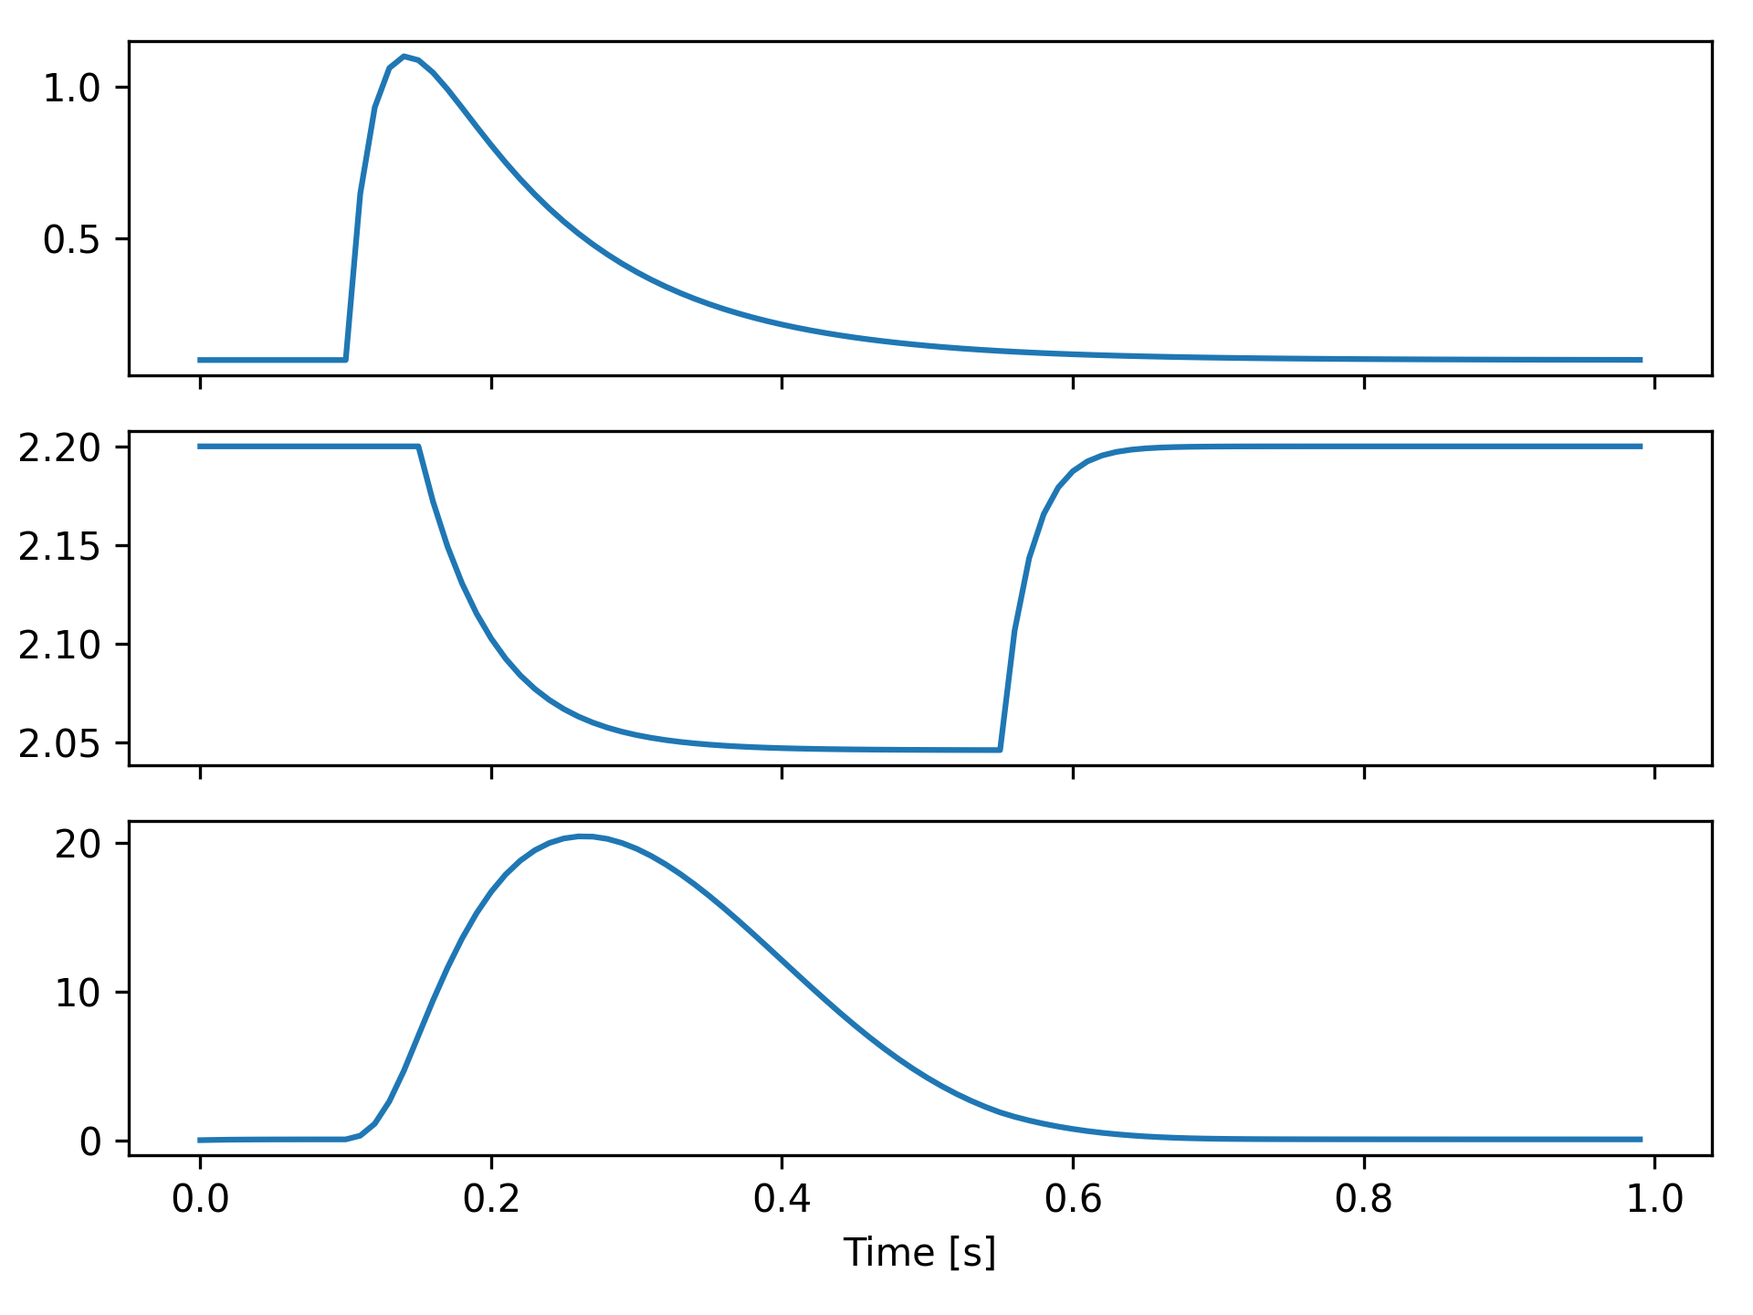
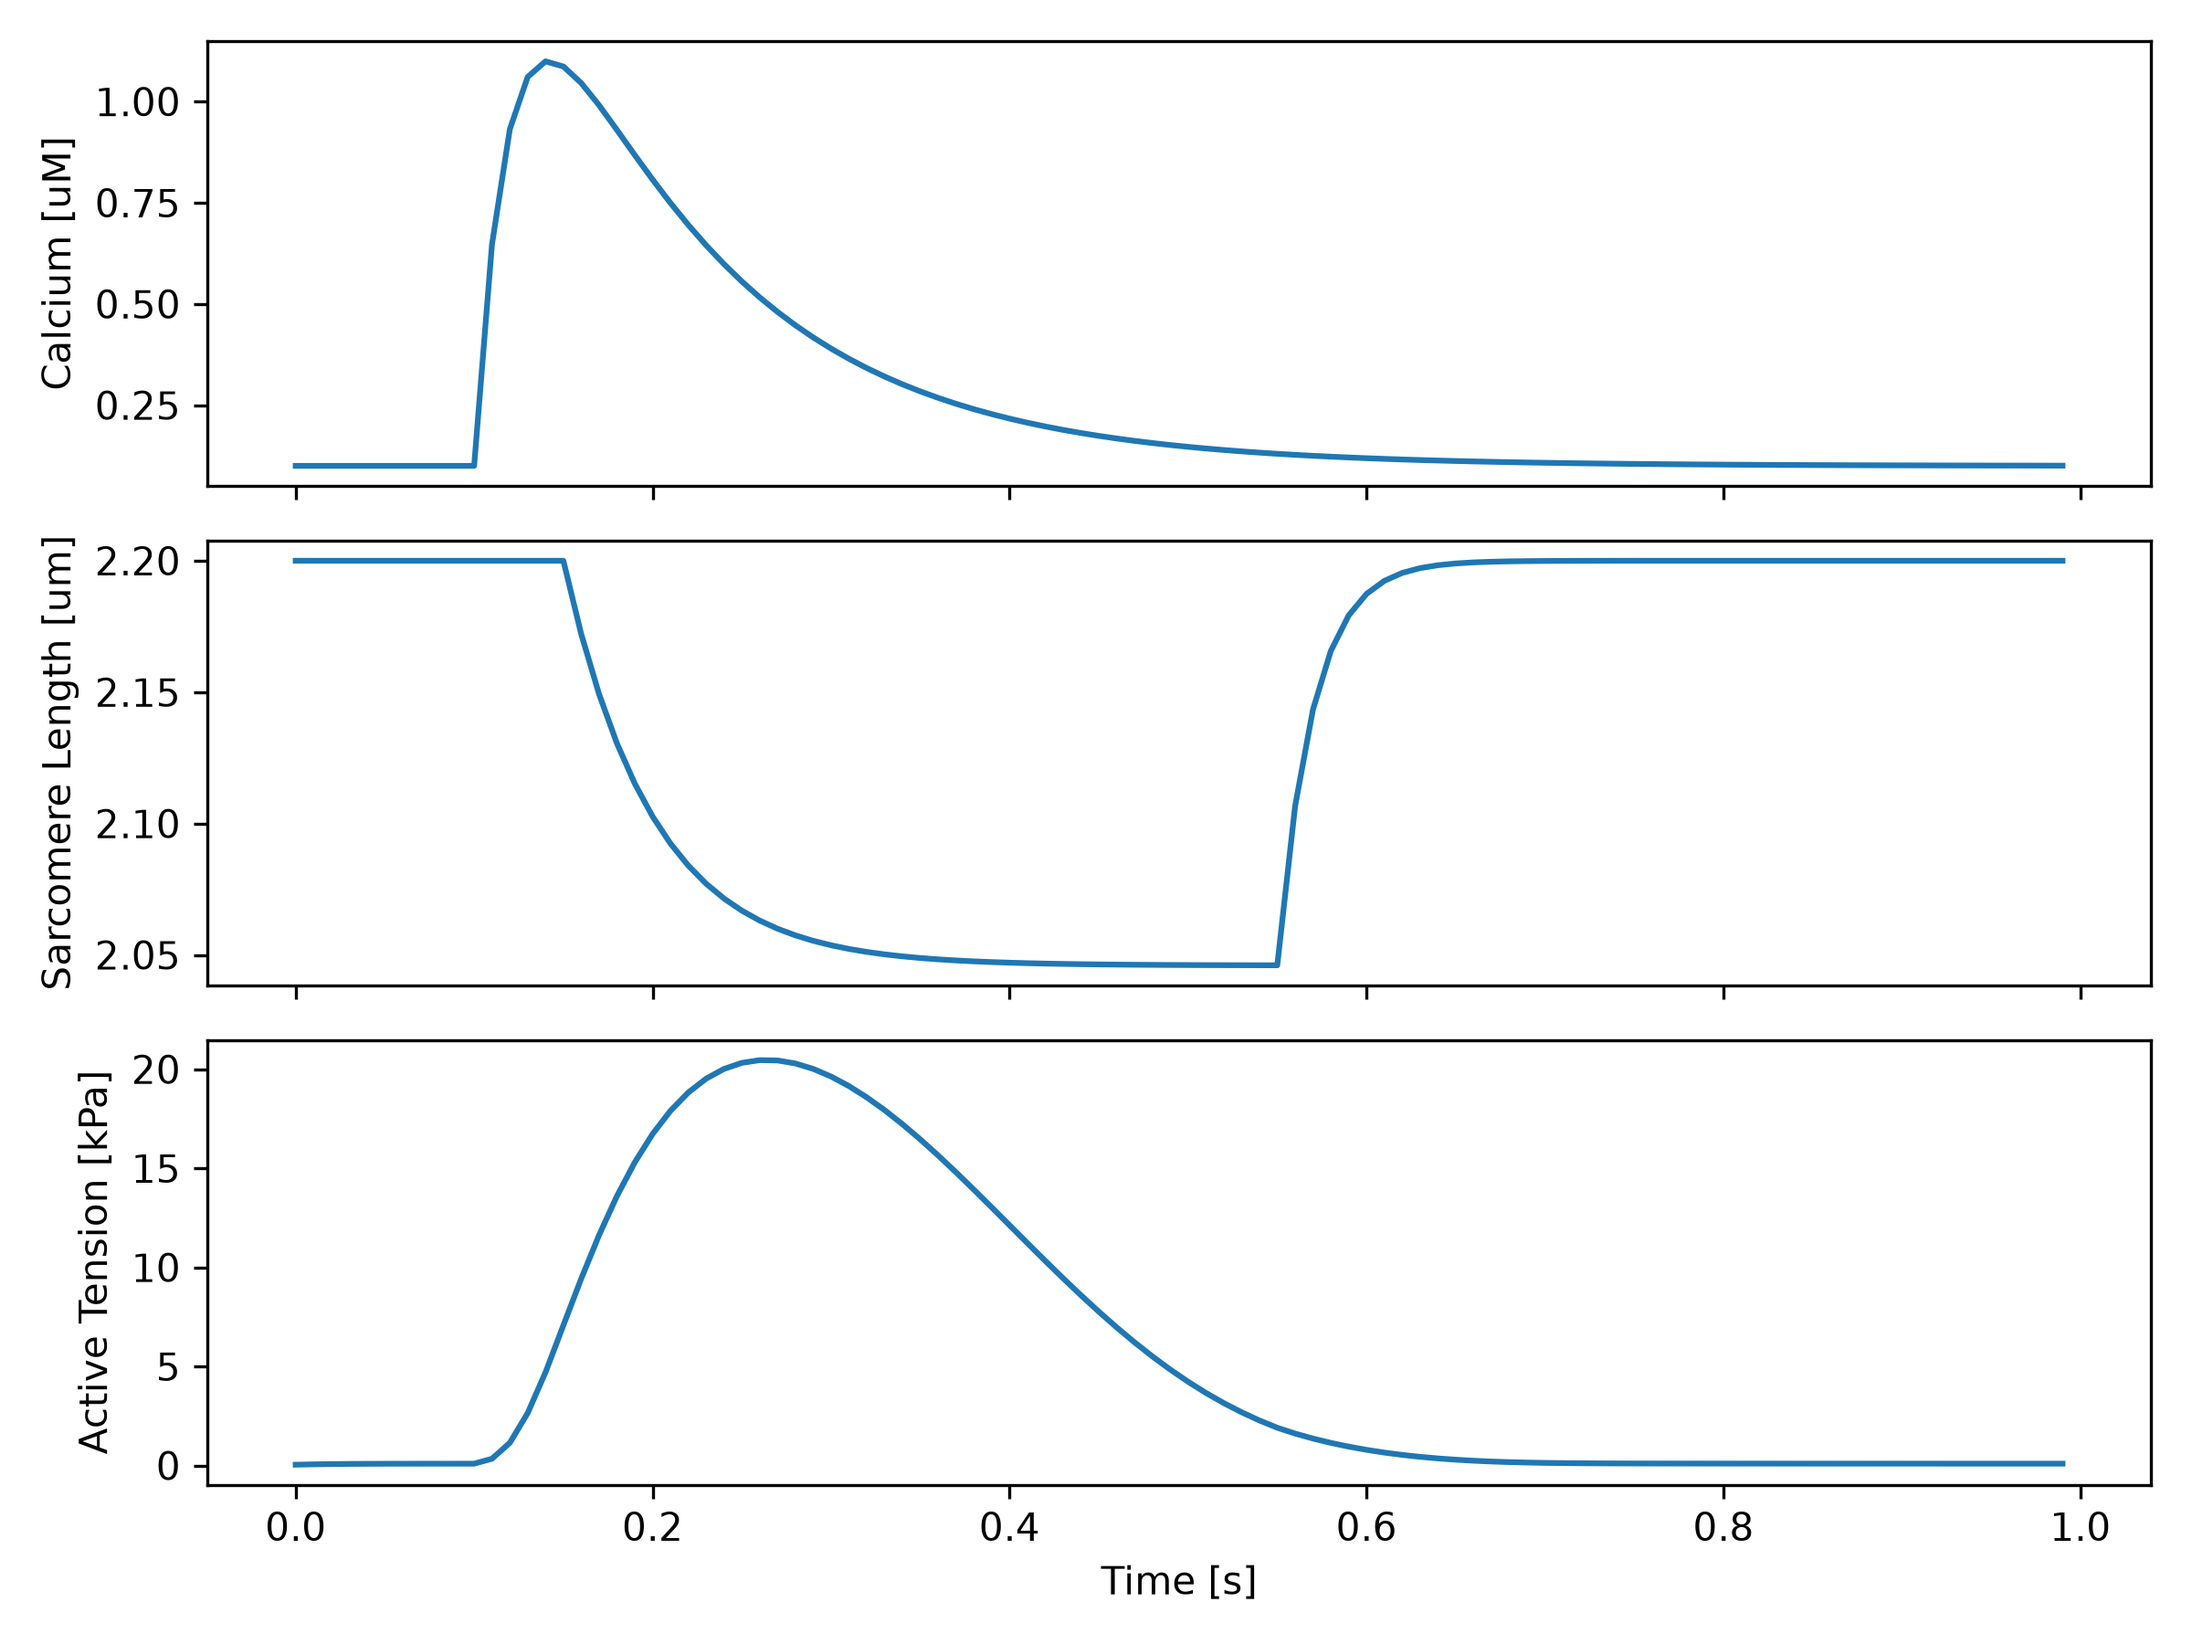
Update readme

diff --git a/CLAUDE.md b/CLAUDE.md
@@ -4,96 +4,58 @@ This file provides guidance to Claude Code (claude.ai/code) when working with co
 
 ## What this is
 
-`crossbridge` is a vectorized Python library implementing several reduced-order models of
-cardiac myofilament activation and crossbridge dynamics (RDQ18, RDQ20-MF, Lewalle2024), all
-sharing a common interface so a coupled electromechanics simulation can swap between them.
-See README.md for the physiological/mathematical background and references for each model.
+- `crossbridge`: vectorized Python library of reduced-order cardiac myofilament activation models (RDQ18, RDQ20-MF, Land2017, Lewalle2024), all sharing one interface so they're swappable.
+- Published on PyPI as `crossbridge`.
+- Model background/references live in `docs/models/`, not README.md (kept short by design).
 
 ## Commands
 
-Install (editable, with test deps):
-```bash
-pip install -e ".[test]"
-```
-
-Run the full test suite (coverage is configured via `addopts` in `pyproject.toml`, so plain
-`pytest` already produces coverage reports):
-```bash
-pytest
-```
-
-Run a single test file / test:
-```bash
-pytest tests/test_rdq18.py
-pytest tests/test_rdq18.py::test_probability_conservation
-```
-
-Lint / format / type-check (same tools run in CI's `pre-commit.yml`):
-```bash
-pre-commit run --all-files
-# or individually:
-ruff check .
-ruff format .
-mypy --config-file pyproject.toml
-```
-
-Demos (require `pip install ".[demos]"`) live in `demo/` and are run directly, e.g.
-`python demo/compare_models.py`, `python demo/reproduce_figures.py`. `demo/fem.py` additionally
-needs `dolfinx` and `pulse` (3D FEM coupling) and is not part of the standard install extras.
+- Install (editable, dev): `pip install -e ".[test]"`
+- Run all tests: `pytest`
+- Run one test: `pytest tests/test_rdq18.py::test_probability_conservation`
+- Lint/format/typecheck (matches CI's `pre-commit.yml`): `pre-commit run --all-files` (or individually `ruff check .`, `ruff format .`, `mypy --config-file pyproject.toml`)
+- Demos need `pip install ".[demos]"`; run directly, e.g. `python demo/compare_models.py`. `demo/fem.py` additionally needs `dolfinx`/`pulse`, not covered by any extra.
 
 ## Architecture
 
-All models live in `src/crossbridge/` and subclass the abstract `CardiacActivationModel`
-(`src/crossbridge/base.py`), which fixes one constructor signature and stepping interface:
+- All models subclass `CardiacActivationModel` (`src/crossbridge/base.py`):
+  `ModelClass(num_cells, Ta_max, params=None)`, `.default_parameters()`,
+  `.advance_step(dt, Ca_val, SL_vals, dSL_vals=None)`, `.get_active_tension()`, `.reset()`.
+- **Adding a new model** — do all of: implement the class in `src/crossbridge/<name>.py`; register
+  it in `MODEL_REGISTRY` and `__all__` in `src/crossbridge/__init__.py`; add `docs/models/<name>.md`
+  and list it in `_toc.yml`; add an `automodule` block to `docs/api.rst`.
+- Each model file (`rdq18.py`, `rdq20mf.py`, `land17.py`, `lewalle2024.py`) is self-contained and
+  fully vectorized — NumPy arrays with a `num_cells` dimension, no per-cell Python loop.
+  `advance_step` is the portable cross-model entry point; some models also keep an original,
+  more detailed entry point (e.g. `RDQ18.advance_ODE`).
+- `Ta_max` semantics differ by model: `RDQ18` uses it directly
+  (`Ta_max * compute_permissivity()`); `RDQ20MF`, `Land2017`, `Lewalle2024` compute tension
+  intrinsically from their own params (`a_XB`/`Tref`) and only accept `Ta_max` for interface
+  compatibility — check which applies before relying on it.
+- `Land2017` is the un-amended base model; `Lewalle2024` extends it by replacing its ad hoc
+  `beta0`/`beta1` length-dependent activation with explicit myosin OFF-state feedback.
+- `src/crossbridge/utils.py`: synthetic `calcium_trace()`/`sl_trace()` generators for tests/demos,
+  not physiological data.
+- `new_models/` (paper PDFs + reference ports) and root `main.py` are reference/scratch material,
+  not part of the installable package (`tool.setuptools.packages.find` only picks up `src/`) —
+  treat `new_models/` as read-only ground truth when checking a port's numerics.
 
-```python
-ModelClass(num_cells, Ta_max, params=None)
-model.default_parameters()   # classmethod: dict of physiological defaults
-model.advance_step(dt, Ca_val, SL_vals, dSL_vals=None)   # integrate one time step
-model.get_active_tension()   # -> np.ndarray, shape (num_cells,), kPa
-model.reset()                # restore initial state without re-allocating precomputed constants
-```
+## Documentation
 
-A model is looked up by name via the small registry in `src/crossbridge/__init__.py`
-(`MODEL_REGISTRY` / `get_model(name)`) — add new models to both the registry and
-`__all__` when introducing one.
+- Per-model background+references: `docs/models/*.md` (+ `index.md` overview). Per-demo
+  descriptions: `demo/index.md`.
+- Citations: add entries to `docs/refs.bib`, reference via `` {cite}`key` `` (MyST role; works
+  both in `.md` files and inside jupytext-formatted demo `.py` files). Bibliography renders via a
+  bare `` ```{bibliography}``` `` directive in `docs/models/index.md`.
+- Docs are a jupyter-book site (`_config.yml`, `_toc.yml`) — new doc pages must be added to
+  `_toc.yml` or they won't appear in the built site.
 
-Each model file (`rdq18.py`, `rdq20mf.py`, `land17.py`, `lewalle2024.py`) is self-contained: parameters are
-merged from `default_parameters()` with a caller-supplied `params` dict in `__init__`, and all
-state is stored as NumPy arrays with a trailing (or matching) `num_cells` dimension so a single
-model instance vectorizes across many cells/integration points at once — there is no
-per-cell Python loop in the hot path. `advance_step` is the portable, model-agnostic entry
-point; model-specific historical entry points also exist (e.g. `RDQ18.advance_ODE`) and are
-kept for backward compatibility / direct use — prefer `advance_step` in code meant to be
-model-agnostic.
+## Demos
 
-Only `RDQ18` scales tension via the constructor's `Ta_max` (`Ta_max * compute_permissivity()`).
-`RDQ20MF`, `Land2017`, and `Lewalle2024` compute tension intrinsically from their own parameters
-(`a_XB`, `Tref`, `Tref` respectively) and accept `Ta_max` purely for interface compatibility —
-check which case applies before relying on `Ta_max` when adding code that swaps models. `Land2017`
-is the un-amended base model that `Lewalle2024` extends (same troponin/crossbridge state
-machinery, but `Lewalle2024` replaces `Land2017`'s ad hoc `beta0`/`beta1` length-dependent
-activation with explicit myosin OFF-state feedback). See the "Choosing a
-Model" table in README.md for the full parameter/state comparison.
-
-`src/crossbridge/utils.py` provides synthetic `calcium_trace()` / `sl_trace()` generators used
-throughout the tests and demos as standard inputs, not physiological measurements.
-
-### Reference materials (not part of the package)
-
-`new_models/` contains the original paper PDFs and reference implementations (Python/C++/MATLAB)
-that the models in `src/crossbridge/` were ported/adapted from. `main.py` at the repo root is a
-scratch/example script. Neither is part of the installable `crossbridge` package
-(`tool.setuptools.packages.find` only picks up `src/`) — treat `new_models/` as read-only
-ground truth when checking a port's numerical behavior against the original.
-
-### Demos beyond single-cell usage
-
-Several demos in `demo/` couple a model into larger simulations and are useful references for
-architecture beyond the core library:
-- `holzapfel_torord_isometric.py` / `holzapfel_torord_isotonic.py`: couple `RDQ18` to a
-  ToRORd electrophysiology model and a `zero_mech` (Holzapfel-Ogden) tissue mechanics model.
-- `fem.py`: couples `RDQ18` to a 3D FEM mesh via `dolfinx`/`pulse`, evaluated at integration
-  points.
-- `compare_models.py`: drives all three models through an identical Ca/SL protocol via
-  `get_model()` to verify the shared-interface contract.
+- `holzapfel_torord_isometric.py` / `_isotonic.py`: couple `RDQ18` to a ToRORd EP model and
+  `zero_mech` (Holzapfel-Ogden tissue mechanics). Running them generates
+  `demo/ToRORd_dynCl_endo.{cellml,ode,py}` (downloaded/code-generated via `gotranx`, not
+  hand-written) plus PNG outputs.
+- `fem.py`: couples `RDQ18` to a 3D FEM mesh via `dolfinx`/`pulse`.
+- `compare_models.py`: drives all models through an identical Ca/SL protocol via `get_model()`
+  to verify the shared interface.

diff --git a/README.md b/README.md
@@ -1,17 +1,16 @@
 # crossbridge
 
-**crossbridge** is a highly efficient, vectorized Python library for simulating cardiac myofilament activation and crossbridge dynamics.
+**crossbridge** is a Python library for simulating cardiac myofilament activation and crossbridge dynamics.
 
 ## The Mathematical Models
 `crossbridge` implements several reduced-order models of cardiac myofilament activation
 ([RDQ18](docs/models/rdq18.md), [RDQ20-MF](docs/models/rdq20mf.md), [Land2017](docs/models/land2017.md),
-[Lewalle2024](docs/models/lewalle2024.md)), all sharing a common interface (see "Choosing a Model"
-below) so that a coupled electromechanics simulation can swap between them with minimal code
+[Lewalle2024](docs/models/lewalle2024.md)), all sharing a common interface so that a coupled electromechanics simulation can swap between them with minimal code
 changes. See [docs/models](docs/models/index.md) for a description and reference for each model.
 
 ## Installation
 
-The package requires Python 3.11+. You can install the base package and its dependencies using `pip`.
+You can install the base package and its dependencies using `pip`.
 
 To install the library you can use pip:
 ```bash
@@ -26,6 +25,9 @@ python3 -m pip install "crossbridge[docs]"   # Installs jupyter-book and sphinx 
 python3 -m pip install "crossbridge[all]"    # Installs everything
 ```
 
+## Documentation
+Documentation is available at [https://computationalphysiology.github.io/crossbridge](https://computationalphysiology.github.io/crossbridge). It includes a user guide, API reference, and model background/references.
+
 ## Basic Usage
 To most basic usage its to solve for a single cell. The `RDQ18` class provides an `advance_ODE` method that takes in the time step, calcium concentration, and sarcomere length to update the internal state of the model. This can then be used to compute an active tension based on the fraction of permissive crossbridges.
 
@@ -33,7 +35,7 @@ To most basic usage its to solve for a single cell. The `RDQ18` class provides a
 import numpy as np
 from crossbridge import RDQ18, calcium_trace, sl_trace
 
-# Initialize a model with 1000 cells/integration points
+# Initialize a model with 1 cell
 num_cells = 1
 dt = 0.01
 dt_sarc = 2.5e-5
@@ -41,19 +43,14 @@ sarcomere = RDQ18(num_cells=num_cells, Ta_max=60.0, params={"dt": dt_sarc})
 
 # Inputs
 t = np.arange(0, 1, dt)  # Time array [s]
-Ca = calcium_trace(t)  # Calcium transient [uM]
-SL = sl_trace(t)  # Sarcomere length transient [um]
+Ca = calcium_trace(t)
+SL = sl_trace(t)
 
-
-Ta = np.zeros(len(t))
+Ta = np.zeros((len(t), num_cells))  # Active tension array [kPa]
 # Advance the ODEs by one time step
 for i, (Cai, SLi) in enumerate(zip(Ca, SL)):
-    sarcomere.advance_ODE(dt, Cai, np.array([SLi]))
-
-    # Compute the fraction of permissive crossbridges (proxy for active tension)
-    permissivity = sarcomere.compute_permissivity()[0]
-    active_tension = sarcomere.Ta_max * permissivity
-    Ta[i] = active_tension
+    sarcomere.advance_ODE(dt, Cai, SLi)  # Advance the model by one time step)
+    Ta[i, :] = sarcomere.get_active_tension()  # Get the active tension for each cell
 
 import matplotlib.pyplot as plt
 
@@ -85,8 +82,7 @@ for t in time_steps:
     Cai = compute_calcium(t)
     sarcomere.advance_ODE(dt, Cai, SL)
     # Compute active tension and update mechanics
-    permissivity = sarcomere.compute_permissivity()[0]
-    active_tension = sarcomere.Ta_max * permissivity
+    active_tension = sarcomere.get_active_tension()
     # Update mechanics model with new active tension
     # and compute new sarcomere length (SL) based on
     # the mechanical response of the tissue
